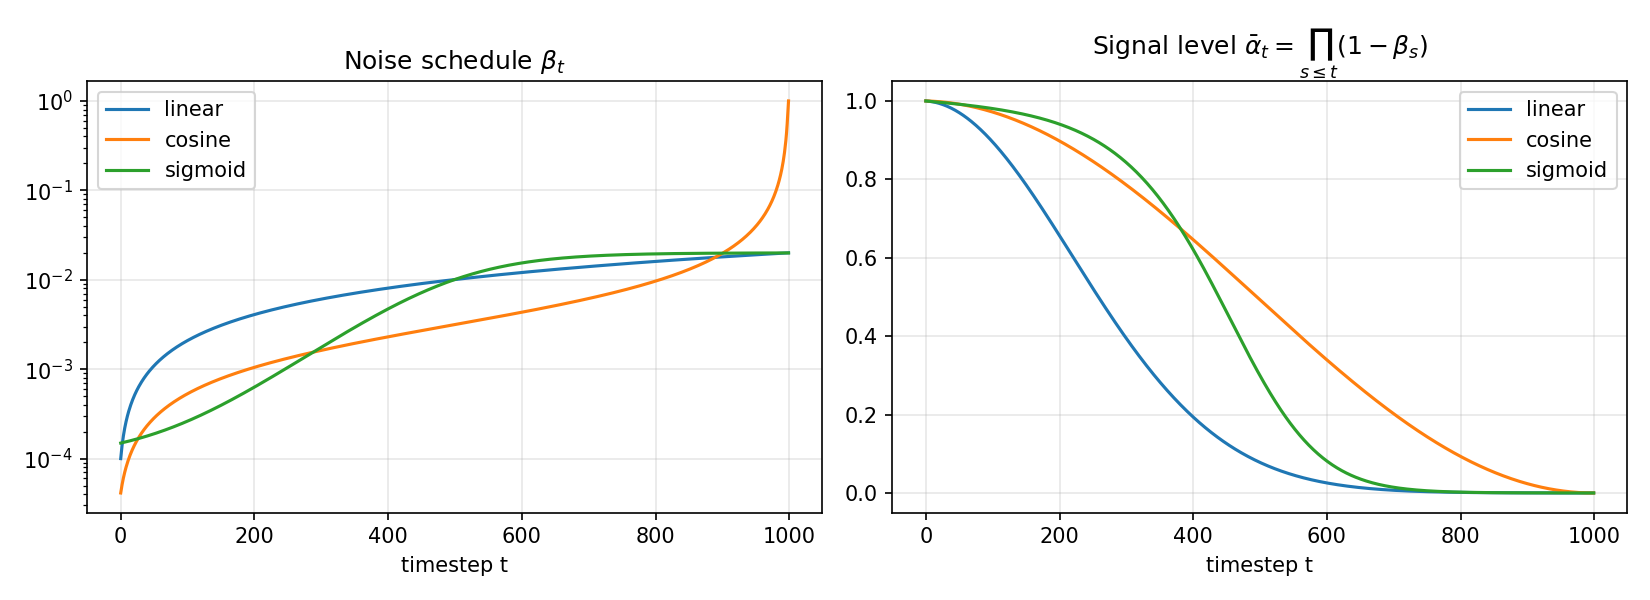
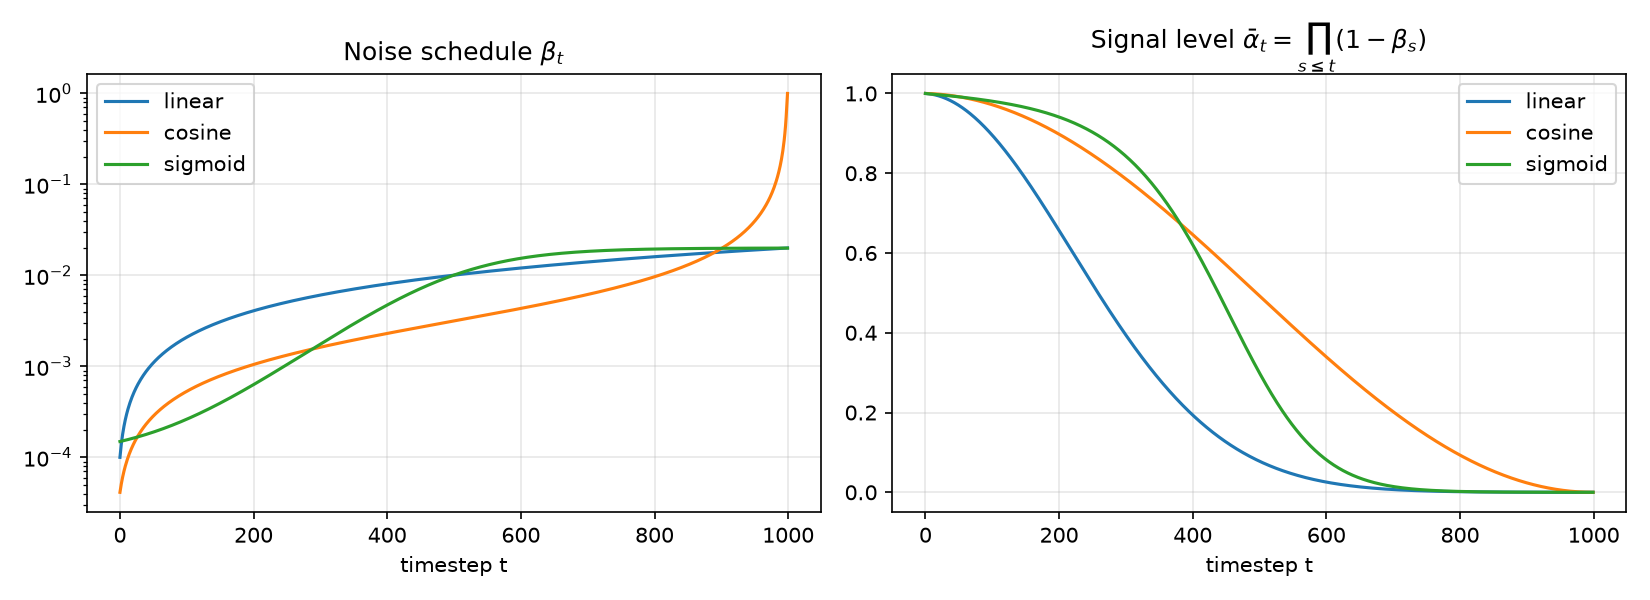
Add CIFAR-10 results (cosine schedule, 300 epochs)
Train the cosine-schedule model for 300 epochs on an RTX 3090 and evaluate
FID / IS on 10k samples over guidance weights. Best FID 13.97 at w = 0.5,
best IS 9.11 at w = 1. Fill the README result tables, add the figures to
assets/, and remove the handoff notes.

diff --git a/README.md b/README.md
@@ -25,23 +25,27 @@ weights, loss curves, and qualitative figures.
 
 ## Results
 
-> **Note:** run `bash scripts/reproduce.sh` to produce the numbers and figures below. The script writes every
-> table and figure into [`assets/`](assets). Paste `assets/results.md` and `assets/schedule_comparison.md`
-> into the tables below.
+The model reported here uses the **cosine schedule**. It was trained for **300 epochs** (105k steps, batch size 128)
+with bf16 mixed precision on a single **RTX 3090**, which took **4.2 h**. Every figure and table below comes from
+`EPOCHS=300 SCHEDULES="cosine" bash scripts/reproduce.sh` and is written to [`assets/`](assets).
 
 ### Sample quality vs. guidance weight
 
-<!-- paste assets/results.md here -->
-| guidance w | FID ↓ | Inception Score ↑ |
-|---:|---:|---:|
-| 0 | – | – |
-| 0.5 | – | – |
-| 1 | – | – |
-| 2 | – | – |
-| 4 | – | – |
+| guidance w | FID ↓ | Inception Score ↑ | sampling time |
+|---:|---:|---:|---:|
+| 0 | 15.26 | 8.38 ± 0.26 | 32.9 min |
+| **0.5** | **13.97** | 8.99 ± 0.19 | 63.2 min |
+| 1 | 20.34 | **9.11 ± 0.22** | 63.2 min |
+| 2 | 41.85 | 8.75 ± 0.14 | 63.2 min |
+| 4 | 91.93 | 7.21 ± 0.15 | 63.2 min |
 
 FID uses 10,000 generated images (1,000 per class) against the CIFAR-10 test set, with 2048-d InceptionV3 features.
-Small guidance weights usually give the best FID. Larger weights trade diversity for fidelity: IS goes up, FID gets worse again.
+Sampling uses all 1000 reverse steps. For `w > 0`, each step needs a conditional and an unconditional forward pass,
+so it is about twice as slow.
+
+A little guidance helps: **`w = 0.5` gives the best FID (13.97)**, about 1.3 lower than plain conditional sampling.
+IS peaks at `w = 1`. Beyond that, guidance trades diversity for fidelity, and at `w ≥ 2` the samples become
+over-saturated (some collapse to nearly flat images), so both FID and IS get worse.
 
 <p align="center">
   <img src="assets/fid_vs_guidance.png" width="48%" alt="FID and IS vs guidance weight">
@@ -50,7 +54,7 @@ Small guidance weights usually give the best FID. Larger weights trade diversity
 
 ### Samples
 
-| Class-conditional samples (one row per class) | Effect of the guidance weight `w` (same initial noise) |
+| Class-conditional samples at `w = 0.5` (one row per class) | Effect of the guidance weight `w` (same initial noise) |
 |:---:|:---:|
 | ![class grid](assets/class_grid.png) | ![guidance sweep](assets/guidance_sweep.png) |
 
@@ -62,17 +66,16 @@ Small guidance weights usually give the best FID. Larger weights trade diversity
 
 ![beta schedules](assets/beta_schedules.png)
 
-<!-- paste assets/schedule_comparison.md here -->
-| schedule | best val loss | test loss (EMA) | best FID (at w) |
-|---|---:|---:|---:|
-| linear | – | – | – |
-| cosine | – | – | – |
-| sigmoid | – | – | – |
+All three schedules are implemented. Because of the compute budget, only the cosine model was trained to the end
+and fully evaluated. A shorter linear-schedule run (100 epochs) reached FID 19.26 / IS 7.68 at `w = 0` on 10k
+samples, compared with 15.26 / 8.38 for the 300-epoch cosine model. The two runs differ in training length as well
+as schedule, so this is not a controlled comparison. Validation losses are not comparable across schedules either,
+because each schedule weights the timesteps differently. `compare_runs.py` therefore ranks runs by FID.
 
 | Schedule | Behaviour |
 |---|---|
 | **Linear** (`1e-4 → 0.02`) | The original DDPM schedule. The signal ᾱₜ drops quickly, so many late timesteps are almost pure noise and add little to training. |
-| **Cosine** | Defined through ᾱₜ ∝ cos²(·). The signal decays almost linearly through the middle of the process and destroys information more slowly. It usually works better at low resolutions such as 32×32. |
+| **Cosine** | Defined through ᾱₜ ∝ cos²(·). The signal decays almost linearly through the middle of the process and destroys information more slowly. Nichol & Dhariwal report it works better at low resolutions such as 32×32. |
 | **Sigmoid** (`1e-4 → 0.02`) | Small βₜ early and a sharp rise in the middle. It keeps the image almost clean for longer, then switches to the noisy regime quickly. |
 
 ## Installation
@@ -151,7 +154,7 @@ python compare_runs.py runs/cifar10_linear runs/cifar10_cosine runs/cifar10_sigm
 
 ```bash
 bash scripts/reproduce.sh                                   # defaults: 100 epochs, 3 schedules
-EPOCHS=50 SCHEDULES="cosine" bash scripts/reproduce.sh      # quicker variant
+EPOCHS=300 SCHEDULES="cosine" bash scripts/reproduce.sh     # the configuration reported above (~9 h on an RTX 3090)
 scripts/run_in_tmux.sh ddpm bash scripts/reproduce.sh       # detached, survives SSH disconnects
 ```
 

diff --git a/assets/results.md b/assets/results.md
@@ -1,0 +1,9 @@
+Schedule: `cosine`, T = 1000, 10000 samples per row, FID reference: CIFAR-10 test set.
+
+| guidance w | FID ↓ | Inception Score ↑ | sampling time |
+|---:|---:|---:|---:|
+| 0 | 15.26 | 8.38 ± 0.26 | 32.9 min |
+| 0.5 | 13.97 | 8.99 ± 0.19 | 63.2 min |
+| 1 | 20.34 | 9.11 ± 0.22 | 63.2 min |
+| 2 | 41.85 | 8.75 ± 0.14 | 63.2 min |
+| 4 | 91.93 | 7.21 ± 0.15 | 63.2 min |

diff --git a/assets/schedule_comparison.md b/assets/schedule_comparison.md
@@ -1,0 +1,3 @@
+| schedule | best val loss | test loss (EMA) | best FID (at w) | IS at best FID |
+|---|---:|---:|---:|---:|
+| cosine | 0.05373 | 0.05414 | 13.97 (w = 0.5) | 8.99 |
